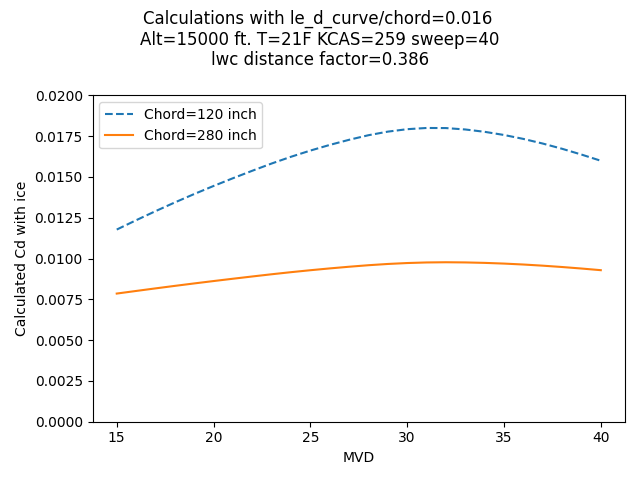
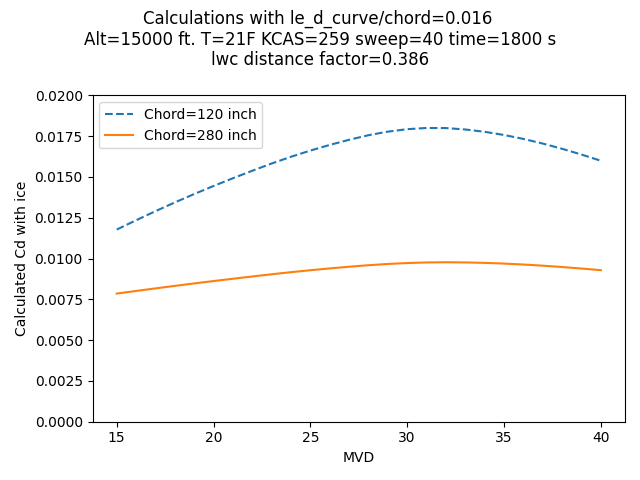
draft Estimating Icing Conditions with Highest Drag

Changed region(s): [[0.125, 0.0625, 0.875, 0.0938]]

diff --git a/docs/drafts/estimating-icing-conditions-with-highest-drag.html b/docs/drafts/estimating-icing-conditions-with-highest-drag.html
@@ -38,7 +38,7 @@
                 Published: Wed 22 July 2026
         </abbr>
 		<br />
-        <abbr class="modified" title="2026-07-23T10:18:46.911617-07:00">
+        <abbr class="modified" title="2026-07-23T10:31:25.005535-07:00">
                 Updated: Thu 23 July 2026
         </abbr>
 <!---->
@@ -159,7 +159,10 @@ For large airfoils, the predicted increase in drag at even the worst case condit
 with is a factor in the correlation of the Cd value with ice. 
 The BAC 470 airfoil has a leading edge curvature to chord ratio of 0.016, about half that of the NACA0012.  </p>
 <p><img alt="Figure 9.png" src="images/wilder/Figure%209.png">  </p>
-<p>Using the flight conditions listed in Wilder for a horizontal stabilizer analysis, 
+<p>So, we will stretch the Cd correlation once again for an airfoil that was not in the 
+NASA-TM-83556 data. 
+This is putting a lot of faith in the dimensionless parameter being applicable over a wide range. 
+Using the flight conditions listed in Wilder for a horizontal stabilizer analysis, 
 the iced Cd correlation yields maximum value at MVD=31.  </p>
 <p><img alt="bac470_cd" src="images/conditions-cd/bac470_cd.png">  </p>
 <p>I am not advocating for the abandonment of prior, successful methods. 

diff --git a/content/conditions_cd.md b/content/conditions_cd.md
@@ -134,7 +134,7 @@ The observation that peak drag conditions do not vary markedly with chord length
 one or a few "critical" icing conditions to be selected as representative. 
 We also saw that the peak Cd value does not change much between 30 and 35 MVD (<1%), 
 so determining the "exact" condition is not critical.   
-
+ 
 These observations are useful for analyzing conditions, 
 but may be of limited use to pilots in flight. 
 Airspeed, altitude, and temperature are indicated on the flight deck, 
@@ -158,6 +158,9 @@ The BAC 470 airfoil has a leading edge curvature to chord ratio of 0.016, about 
 
 ![Figure 9.png](images/wilder/Figure%209.png)  
 
+So, we will stretch the Cd correlation once again for an airfoil that was not in the 
+NASA-TM-83556 data. 
+This is putting a lot of faith in the dimensionless parameter being applicable over a wide range. 
 Using the flight conditions listed in Wilder for a horizontal stabilizer analysis, 
 the iced Cd correlation yields maximum value at MVD=31.  
 
